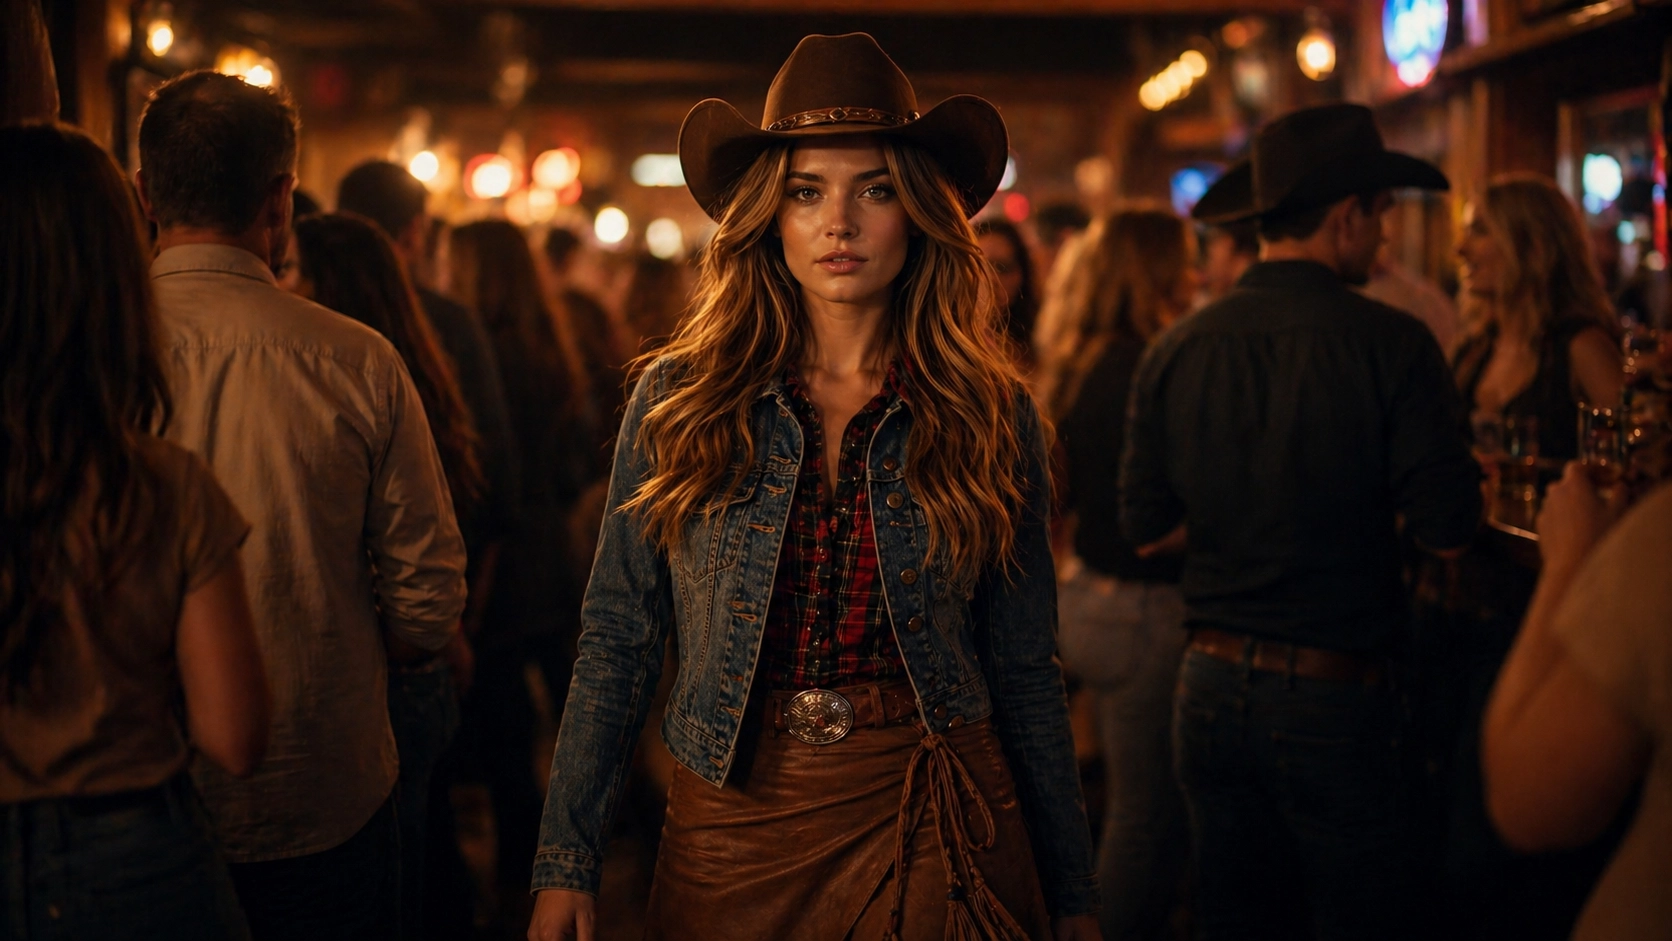
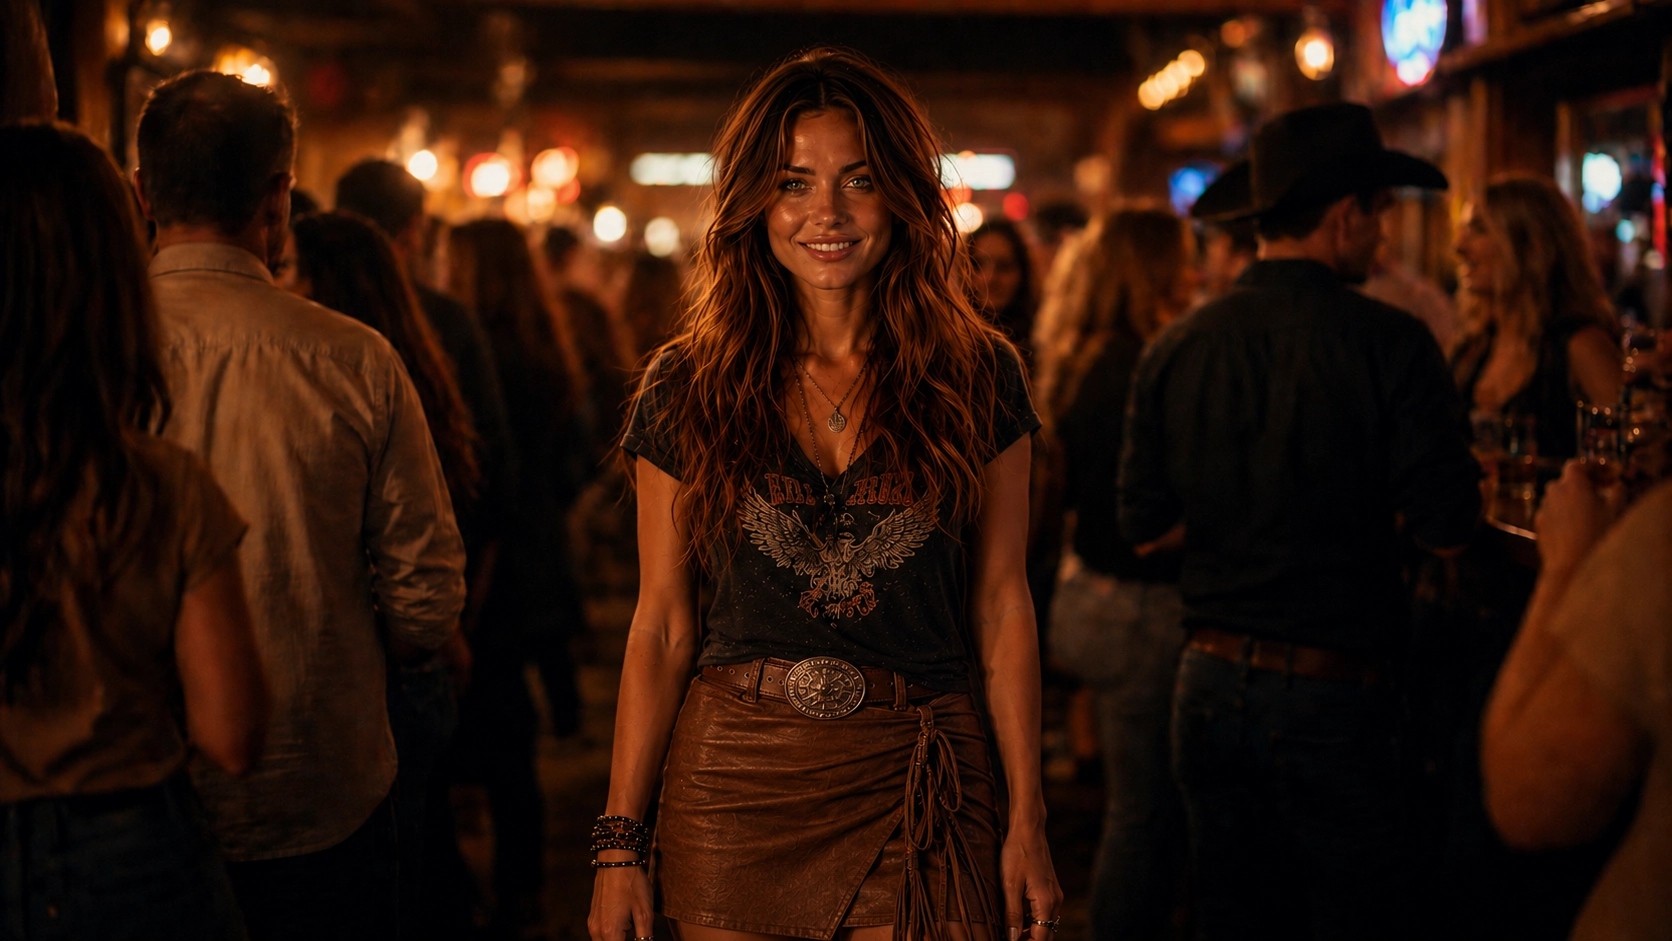
Upload new photos

diff --git a/off-the-record.html b/off-the-record.html
@@ -125,11 +125,15 @@
           </figure>
 
           <figure class="gallery-card">
+          <img src="img/gallery/guitar-02.webp" alt="Dakota Wilder with a guitar">
+          </figure>
+
+          <figure class="gallery-card">
           <img src="img/gallery/sunset-01.webp" alt="Country sunset behind the scenes">
           </figure>
         </div>
       </section>
-      
+
     </main>
     <footer class="site-footer">
       © Dakota Wilder · Singer. Storyteller. Small-town soul.